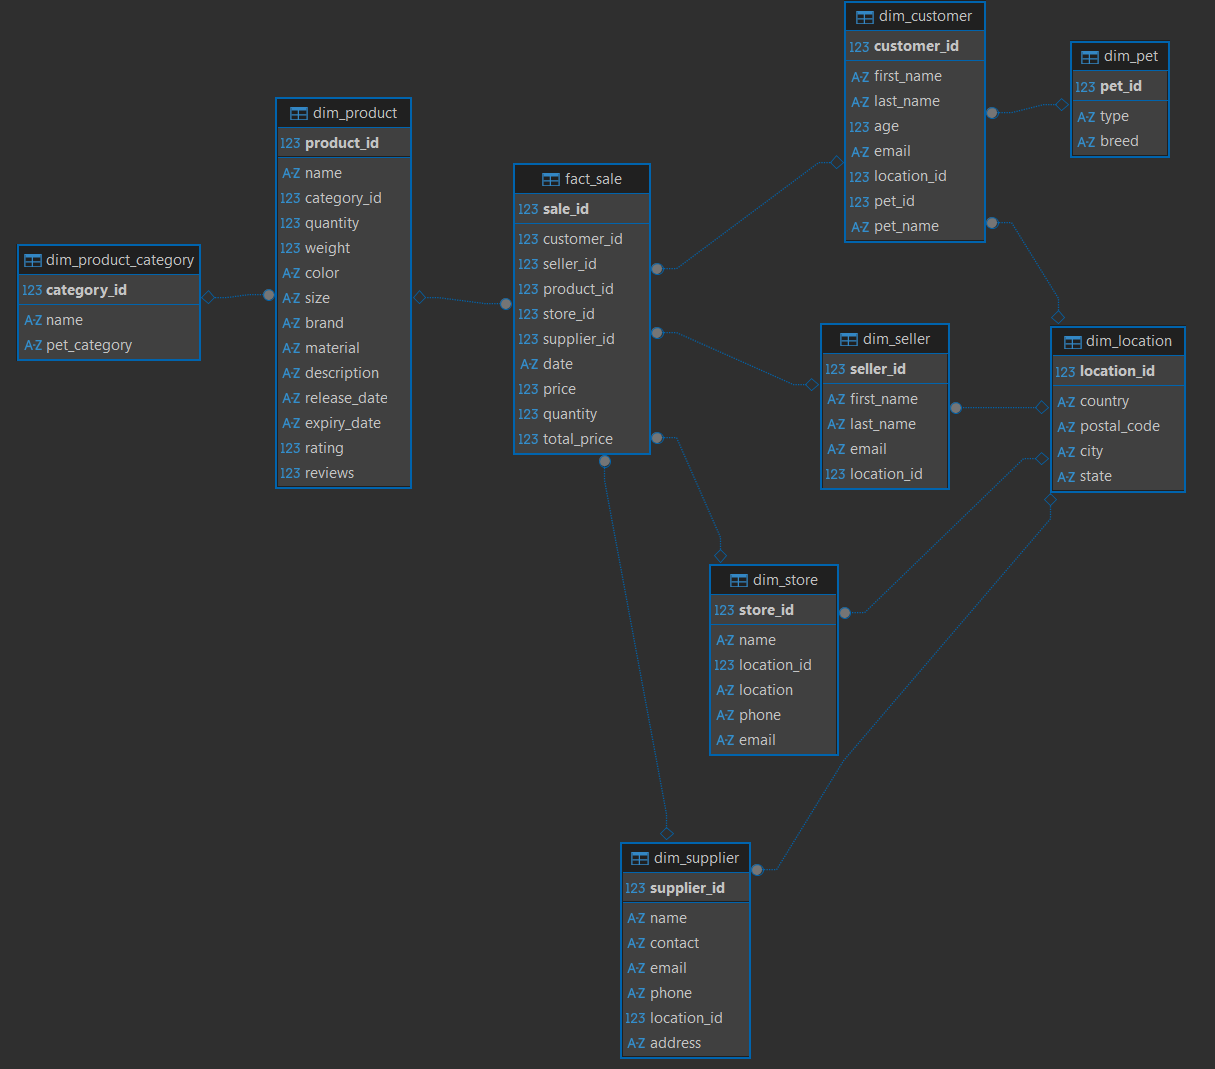
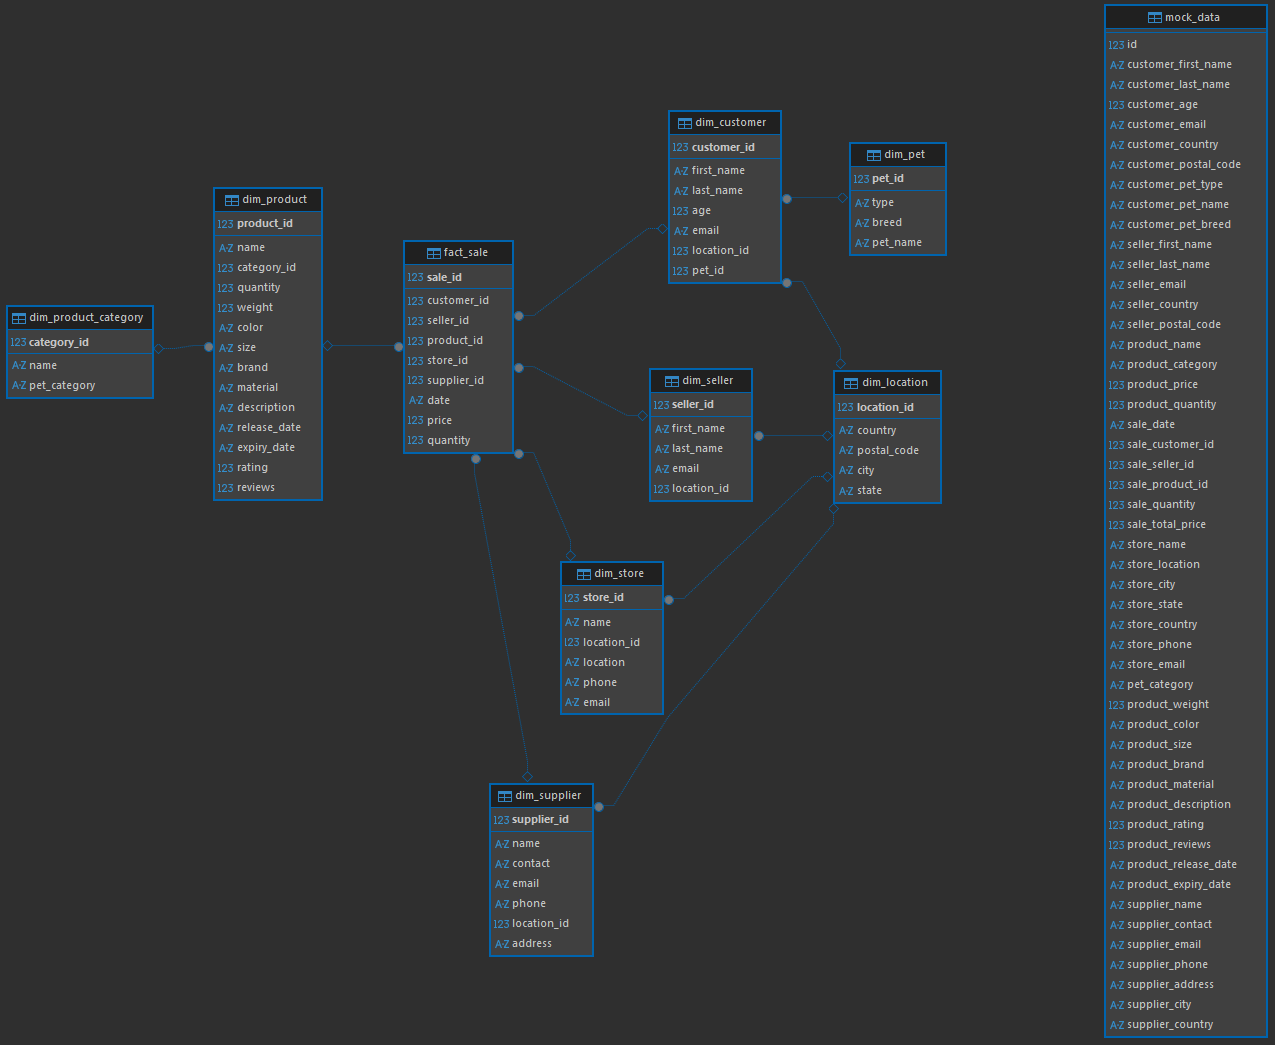
update 2

diff --git a/REPORT.md b/REPORT.md
@@ -1,9 +1,26 @@
-# Работу выполнил 
+# Лабораторная работа №1: Нормализация данных в «Снежинку»
+## Анализ больших данных (Big Data)
+
+### Работу выполнил
 студент группы М8О-315Б-23 Шаталов Максим Алексеевич
-# Основная часть
-В рамках этой лабораторной работы мне нужно было превратить набор сырых CSV файлов в структурированную модель данных по схеме снежинка. По сути, задача была типичной для дата-инженера: взять неструктурированный источник и сделать из него удобное хранилище для аналитики. Я начал с настройки окружения, поднял PostgreSQL через Docker, это современный инструмент контейнеризации. Он очень удобен тем, что не нужно скачивать себе на комьютер ничего лишнего и все сложные зависимости можно поднять одной командой. Потом я скачал десять файлов с тестовыми данными про покупателей и товары, объединил их и загрузил все десять тысяч строк в одну временную таблицу в базе.
 
-После загрузки я начал анализировать, что вообще там лежит, и думать, как это правильно разделить. Нарисовал на листочке поля временной таблицы, потом выделил основные сущности, которые стали таблицами измерений(dim), например, локация, продавец, товар, и оставил сами продажи как таблицу фактов(fact). Написал скрипты для создания этих таблиц и переноса данных. Тут столкнулся с проблемой дубликатов при вставке и с тем что в финальной таблице получалось в сотни раз больше данных чем во входной таблице. Оказалось, что из-за повторов, мои join очень много раз дублировали данные. К сожалению на решение этого вопроса ушло очень много времени и страданий, но в итоге всё получилось и работает корректно.
+---
 
-# Заключение
-В результате выполнения лабораторной работы была успешно реализована трансформация плоской структуры данных в нормализованную аналитическую модель(снежинка). Я закрепил навыки работы с Docker, PostgreSQL, а также понял принципы построения хранилищ данных и важность этапа нормализации для дальнейшей эффективной аналитики. Работа была интересная и мне понравилось её выполнять.
+### Основная часть
+
+В рамках выполнения данной лабораторной работы передо мной стояла классическая задача дата-инженера: трансформировать «сырые» данные из разрозненных источников в структурированную аналитическую модель по схеме «Снежинка» (Snowflake Schema). Это одна из фундаментальных универсальных схем для анализа данных, наряду со «Звездой», позволяющая эффективно исследовать информацию и принимать бизнес-решения. Исходными данными выступали CSV-файлы (`mock_data.csv`), содержащие информацию о покупателях, продавцах, поставщиках, магазинах и товарах для домашних питомцев.
+
+Я начал с развертывания окружения. Для запуска базы данных PostgreSQL использовалась технология контейнеризации Docker. Это современный инструмент, который очень удобен тем, что не нужно скачивать себе на компьютер ничего лишнего и все сложные зависимости можно поднять одной командой (`docker-compose up`). Для удобного взаимодействия с базой данных я использовал клиент DBeaver. Далее согласно структуре проекта я последовательно выполнил подготовленные SQL-скрипты. Сначала скрипт `1_import_raw_data.sql` создал временную таблицу и импортировал в неё данные из десяти CSV-файлов, в сумме получилось более десяти тысяч строк.
+
+Прежде чем писать код трансформации, я проанализировал поля временной таблицы, нарисовал на листочке зависимости и выделил ключевые сущности: локация, продавец, товар, поставщик и покупатель. Эти сущности легли в основу таблиц измерений (`dimension`), а сами транзакции продаж — в таблицу фактов (`fact`). Скрипт `2_create_snowflake_tables.sql` создал целевую нормализованную структуру. 
+
+Итоговая схема снежинки
+![Схема](sheme.png)
+
+После чего скрипт `3_add_data_from_mock.sql` перенес данные из сырой таблицы в новую схему. На этом этапе возникли трудности. Из-за наличия дубликатов в исходных данных мои `JOIN` начали бесконтрольно размножать строки, и в финальной таблице фактов данных оказалось в сотни раз больше, чем на входе. К сожалению, решение этой проблемы ушло очень много времени. В итоге я использовал SELECT DISTINCT и JOIN по всем полям для проверки полного совпадения и всё получилось. Завершающим этапом стало написание скрипта `4_test.sql`, который проверил общее число записей в таблицах и выполнил тестовый аналитический запрос, подтвердив работоспособность схемы.
+
+---
+
+### Заключение
+
+В результате выполнения лабораторной работы была успешно реализована трансформация плоской структуры данных в нормализованную аналитическую модель «Снежинка». Я закрепил навыки работы с Docker и PostgreSQL, лучше понял принципы построения хранилищ данных и важность этапа нормализации для дальнейшей эффективной аналитики. Работа была интересная и мне понравилось её выполнять.
